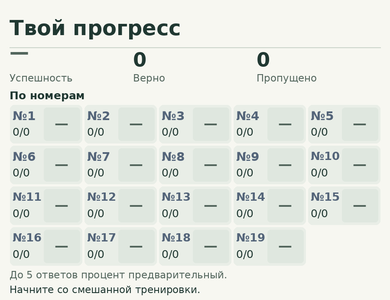
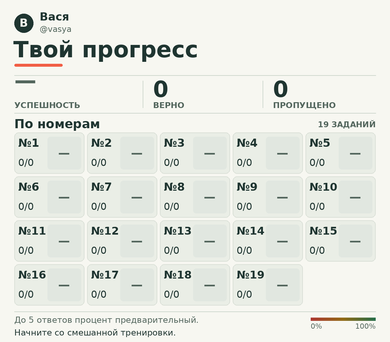
Restore the approved progress reference in the actual Telegram PNG

diff --git a/app/bot/progress_image.py b/app/bot/progress_image.py
@@ -30,31 +30,30 @@ from app.persistence.training_insights import (
 
 logger = logging.getLogger(__name__)
 
-WIDTH = 900
+WIDTH = 1200
 PHOTO_LIMIT = 10 * 1024 * 1024
 GRID_COLUMNS = 5
 GRID_ROWS = 4
-PAD = 22
-TILE_WIDTH = (WIDTH - 2 * PAD - 4 * 6) // GRID_COLUMNS
-TILE_HEIGHT = 88
-TILE_GAP_X = 6
-TILE_GAP_Y = 6
-GRID_TOP = 242
-GRID_LEFT = (WIDTH - (GRID_COLUMNS * TILE_WIDTH + (GRID_COLUMNS - 1) * TILE_GAP_X)) // 2
+PAD = 44
+TILE_GAP_X = 9
+TILE_GAP_Y = 9
+TILE_WIDTH = (WIDTH - 2 * PAD - (GRID_COLUMNS - 1) * TILE_GAP_X) // GRID_COLUMNS
+TILE_HEIGHT = 126
+GRID_TOP = 407
 
 PALETTE = {
     "background": "#F7F7F1",
     "card": "#FFFFFF",
-    "ink": "#203832",
+    "ink": "#1F3531",
     "muted": "#53665D",
     "line": "#CBD5CB",
     "blue": "#527FE3",
     "blue_light": "#EAF0FF",
-    "neutral": "#536479",
+    "neutral": "#1F3531",
     "neutral_light": "#F1F3F6",
-    "red": "#AC3545",
-    "yellow": "#895707",
-    "green": "#176F4C",
+    "red": "#AD3732",
+    "yellow": "#916A15",
+    "green": "#256D49",
 }
 
 
@@ -143,66 +142,142 @@ def _recommendation(insights: dict[str, Any]) -> str:
 def render_overview(insights: dict[str, Any], task_count: int = 19) -> Image.Image:
     total = insights["total"]
     tiles = dashboard_tile_values(insights, task_count)
-    footer = GRID_TOP + ((len(tiles) + 4) // 5) * (TILE_HEIGHT + TILE_GAP_Y)
-    image = Image.new("RGB", (WIDTH, footer + 74), PALETTE["background"])
+    row_count = (len(tiles) + GRID_COLUMNS - 1) // GRID_COLUMNS
+    grid_bottom = GRID_TOP + row_count * TILE_HEIGHT + (row_count - 1) * TILE_GAP_Y
+    right = WIDTH - PAD
+    name = " ".join(insights.get("display_identity", "").split())
+    handle = insights.get("display_handle", "")
+    shift = 0 if name or handle else 56
+    image = Image.new("RGB", (WIDTH, grid_bottom + 113 - shift), PALETTE["background"])
     draw = ImageDraw.Draw(image)
-    identity = insights.get("display_identity", "")
-    if identity:
-        draw_fitted_text(draw, (PAD, 12), identity, max_width=WIDTH - 2 * PAD, size=24)
-    draw.text((PAD, 44), "Твой прогресс", font=_font(48, True), fill=PALETTE["ink"], anchor="lt")
-    draw.line((PAD, 109, WIDTH - PAD, 109), fill=PALETTE["line"], width=2)
+    ink, muted, line = PALETTE["ink"], PALETTE["muted"], PALETTE["line"]
+
+    if name or handle:
+        account = name or handle
+        draw.ellipse((PAD, 42, PAD + 58, 100), fill=ink)
+        draw.text(
+            (PAD + 29, 70),
+            account.lstrip("@")[:1].upper(),
+            font=_font(34, True),
+            fill=PALETTE["background"],
+            anchor="mm",
+        )
+        draw_fitted_text(
+            draw,
+            (PAD + 78, 38 if name and handle else 55),
+            account,
+            max_width=right - PAD - 78,
+            size=34,
+            bold=True,
+        )
+        if name and handle:
+            draw_fitted_text(
+                draw, (PAD + 78, 80), handle, max_width=right - PAD - 78, size=25, fill=muted
+            )
+    title_y = 123 - shift
+    draw.text((PAD - 3, title_y), "Твой прогресс", font=_font(69, True), fill=ink, anchor="lt")
+    draw.rounded_rectangle((PAD, title_y + 73, PAD + 148, title_y + 81), radius=4, fill="#F15E45")
+    for y in (231, 347):
+        draw.line((PAD, y - shift, right, y - shift), fill=line, width=2)
     metrics = (
         (
-            "Успешность",
+            "УСПЕШНОСТЬ",
             success_label(total),
             _rate_color(total["correct"], total["answered_tasks"]),
         ),
-        ("Верно", str(total["correct"]), PALETTE["ink"]),
-        ("Пропущено", str(total["skipped"]), PALETTE["ink"]),
+        ("ВЕРНО", str(total["correct"]), ink),
+        ("ПРОПУЩЕНО", str(total["skipped"]), ink),
     )
+    if task_count == 25:
+        draw.text(
+            (right, title_y + 81), "СВОДКА №1–19", font=_font(24, True), fill=muted, anchor="rb"
+        )
     for index, (label, value, color) in enumerate(metrics):
-        x = PAD + index * ((WIDTH - 2 * PAD) // 3)
-        draw_fitted_text(draw, (x, 120), value, max_width=270, size=45, bold=True, fill=color)
-        draw.text((x, 171), label, font=_font(23), fill=PALETTE["muted"], anchor="lt")
-    draw.text((PAD, 211), "По номерам", font=_font(25, True), fill=PALETTE["ink"], anchor="lt")
-    for number, correct, answered, rate, _ in tiles:
+        x = (PAD, 471, 840)[index]
+        if index:
+            draw.line((x - 32, 248 - shift, x - 32, 331 - shift), fill=line, width=2)
+        draw_fitted_text(
+            draw,
+            (x, 247 - shift),
+            value,
+            max_width=right - x if index == 2 else 335,
+            size=68,
+            bold=True,
+            fill=color,
+        )
+        draw.text((x, 314 - shift), label, font=_font(25, True), fill=muted, anchor="lt")
+    draw.text((PAD, 366 - shift), "По номерам", font=_font(38, True), fill=ink, anchor="lt")
+    draw.text(
+        (right, 395 - shift), f"{task_count} ЗАДАНИЙ", font=_font(24, True), fill=muted, anchor="rb"
+    )
+
+    for number, correct, answered, rate, sufficient in tiles:
         row, col = divmod(number - 1, GRID_COLUMNS)
-        x = GRID_LEFT + col * (TILE_WIDTH + TILE_GAP_X)
-        y = GRID_TOP + row * (TILE_HEIGHT + TILE_GAP_Y)
-        draw.rounded_rectangle((x, y, x + TILE_WIDTH, y + TILE_HEIGHT), radius=10, fill="#E9EEE7")
+        x = PAD + col * (TILE_WIDTH + TILE_GAP_X)
+        y = GRID_TOP + row * (TILE_HEIGHT + TILE_GAP_Y) - shift
         draw.rounded_rectangle(
-            (x + 78, y + 6, x + TILE_WIDTH - 5, y + TILE_HEIGHT - 6), radius=7, fill="#DFE7DF"
+            (x, y, x + TILE_WIDTH, y + TILE_HEIGHT),
+            radius=13,
+            fill="#EAEEE6",
+            outline="#D8DED5",
+            width=2,
+        )
+        accent = _rate_color(correct, answered)
+        panel = "#E1E7E0"
+        if answered:
+            tint = 0.14 if sufficient else 0.085
+            rgb = ImageColor.getrgb(accent)
+            paper = ImageColor.getrgb(PALETTE["background"])
+            panel = "#" + "".join(
+                f"{round(base * (1 - tint) + channel * tint):02x}"
+                for base, channel in zip(paper, rgb, strict=True)
+            )
+        panel_left, panel_right = x + 102, x + TILE_WIDTH - 10
+        draw.rounded_rectangle(
+            (panel_left, y + 13, panel_right, y + TILE_HEIGHT - 13), radius=9, fill=panel
         )
         draw_fitted_text(
             draw,
-            (x + 6, y + 14),
+            (x + 12, y + 19),
             f"№{number}",
-            max_width=68,
-            size=28,
+            max_width=86,
+            size=34,
             bold=True,
             fill=dashboard_tile_accent(correct, answered),
         )
-        draw_fitted_text(draw, (x + 6, y + 53), f"{correct}/{answered}", max_width=68, size=25)
+        draw_fitted_text(draw, (x + 12, y + 81), f"{correct}/{answered}", max_width=86, size=30)
         draw_fitted_text(
             draw,
-            (x + (78 + TILE_WIDTH - 5) // 2, y + TILE_HEIGHT // 2),
+            ((panel_left + panel_right) // 2, y + TILE_HEIGHT // 2),
             rate,
-            max_width=75,
-            size=32,
+            max_width=panel_right - panel_left - 9,
+            size=36,
             bold=True,
-            fill=_rate_color(correct, answered),
+            fill=accent,
             anchor="mm",
         )
+
+    footer = grid_bottom - shift
+    draw.line((PAD, footer + 19, right, footer + 19), fill=line, width=2)
     draw.text(
-        (PAD, footer + 7),
+        (PAD, footer + 34),
         "До 5 ответов процент предварительный.",
-        font=_font(23),
-        fill=PALETTE["muted"],
+        font=_font(26),
+        fill=muted,
         anchor="lt",
     )
-    draw_fitted_text(
-        draw, (PAD, footer + 41), _recommendation(insights), max_width=WIDTH - 2 * PAD, size=23
+    legend_width = 200
+    for i in range(legend_width):
+        gx = right - legend_width + i
+        draw.line((gx, footer + 38, gx, footer + 47), fill=_rate_color(i, legend_width - 1))
+    for x, label, anchor in ((right - legend_width, "0%", "lt"), (right, "100%", "rt")):
+        draw.text((x, footer + 56), label, font=_font(22), fill=muted, anchor=anchor)
+    note = (
+        "№20–25 · Первые работы с 2 баллами из оценённых GPT."
+        if task_count == 25
+        else _recommendation(insights)
     )
+    draw_fitted_text(draw, (PAD, footer + 73), note, max_width=right - PAD, size=26, fill=ink)
     return image
 
 
@@ -253,7 +328,7 @@ async def send_progress_image(
     viewer = viewer or getattr(message, "from_user", None)
     if viewer and viewer.id == user_id and not viewer.is_bot:
         handle = f"@{viewer.username}" if viewer.username else ""
-        insights = {**insights, "display_identity": f"{viewer.full_name}  {handle}".strip()}
+        insights = {**insights, "display_identity": viewer.full_name, "display_handle": handle}
     try:
         image = await asyncio.to_thread(render_progress_image, insights)
     except (OSError, RuntimeError, ValueError):

diff --git a/tests/test_progress_image.py b/tests/test_progress_image.py
@@ -226,3 +226,25 @@ def test_uniform_grid_supports_the_extended_bank():
     with Image.open(io.BytesIO(render_progress_image(insights, task_count=25))) as extended:
         with Image.open(io.BytesIO(render_progress_image(insights))) as first:
             assert extended.height > first.height
+
+
+def test_profile_accent_and_score_panels_survive_the_mobile_layout():
+    from PIL import ImageColor
+
+    from app.bot.progress_image import GRID_TOP, PAD, TILE_GAP_X, TILE_WIDTH, render_overview
+
+    sample = demo_insights("empty")
+    sample.update(display_identity="Вася", display_handle="@vasya")
+    for number, correct, answered in ((2, 1, 1), (3, 5, 5), (4, 0, 5)):
+        sample["numbers"][number].update(correct=correct, answered_tasks=answered)
+    image = render_overview(sample)
+    assert image.getpixel((PAD + 29, 49)) == ImageColor.getrgb(PALETTE["ink"])
+    assert image.getpixel((PAD + 60, 200)) == ImageColor.getrgb("#F15E45")
+    panels = [
+        image.getpixel((PAD + col * (TILE_WIDTH + TILE_GAP_X) + 120, GRID_TOP + 20))
+        for col in range(4)
+    ]
+    assert len(set(panels)) == 4
+    assert panels[2][1] > panels[2][0] and panels[3][0] > panels[3][1]
+    del sample["display_identity"], sample["display_handle"]
+    assert render_overview(sample).height < image.height

diff --git a/scripts/generate_progress_previews.py b/scripts/generate_progress_previews.py
@@ -68,7 +68,9 @@ def generate() -> list[Path]:
     OUTPUT.mkdir(parents=True, exist_ok=True)
     output: list[Path] = []
     for kind in ("empty", "partial", "full"):
-        png = render_progress_image(demo_insights(kind))
+        insights = demo_insights(kind)
+        insights.update(display_identity="Вася", display_handle="@vasya")
+        png = render_progress_image(insights)
         path = OUTPUT / f"progress-{kind}.png"
         path.write_bytes(png)
         output.append(path)
